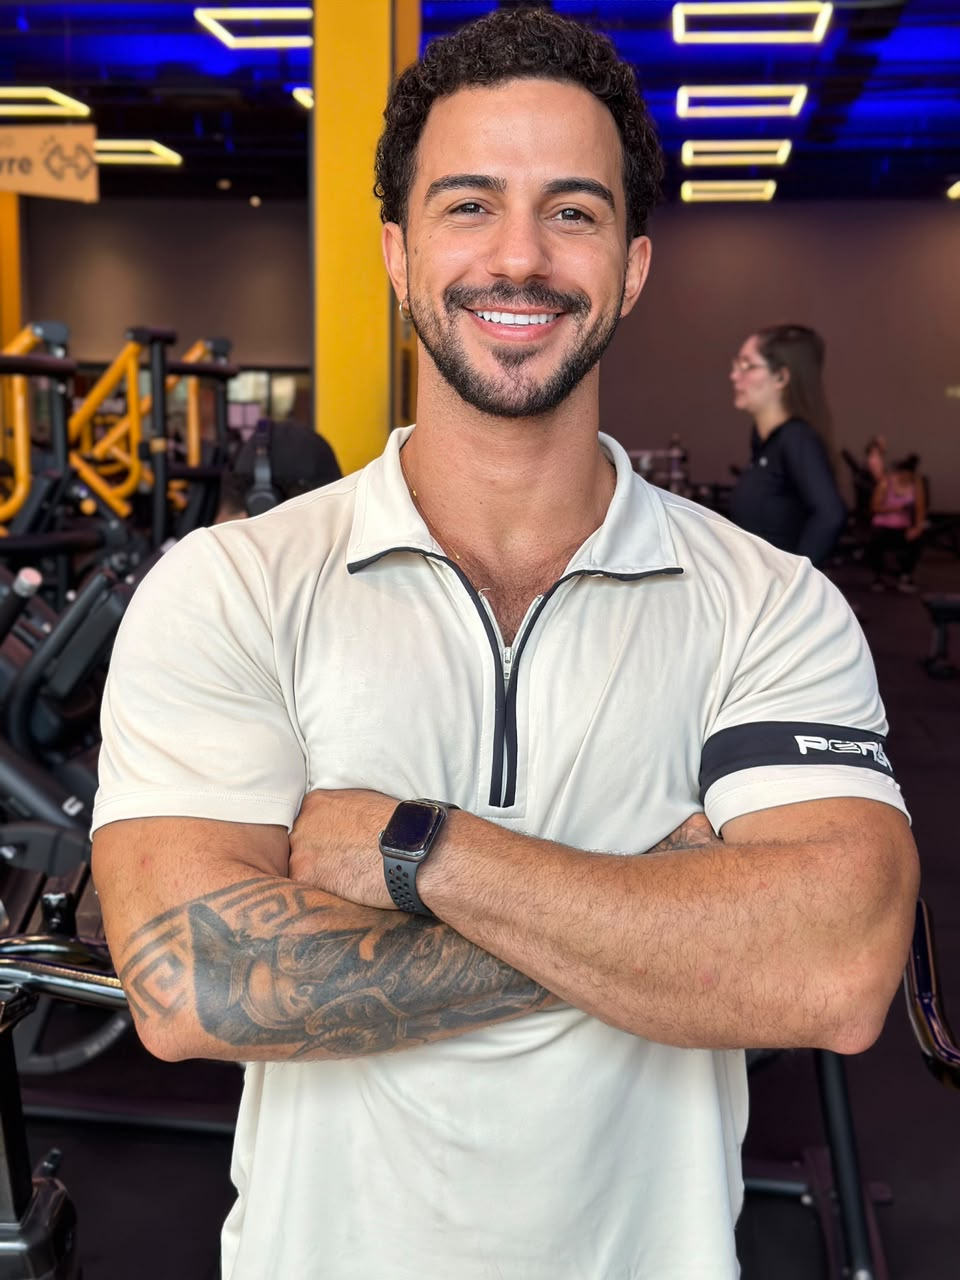
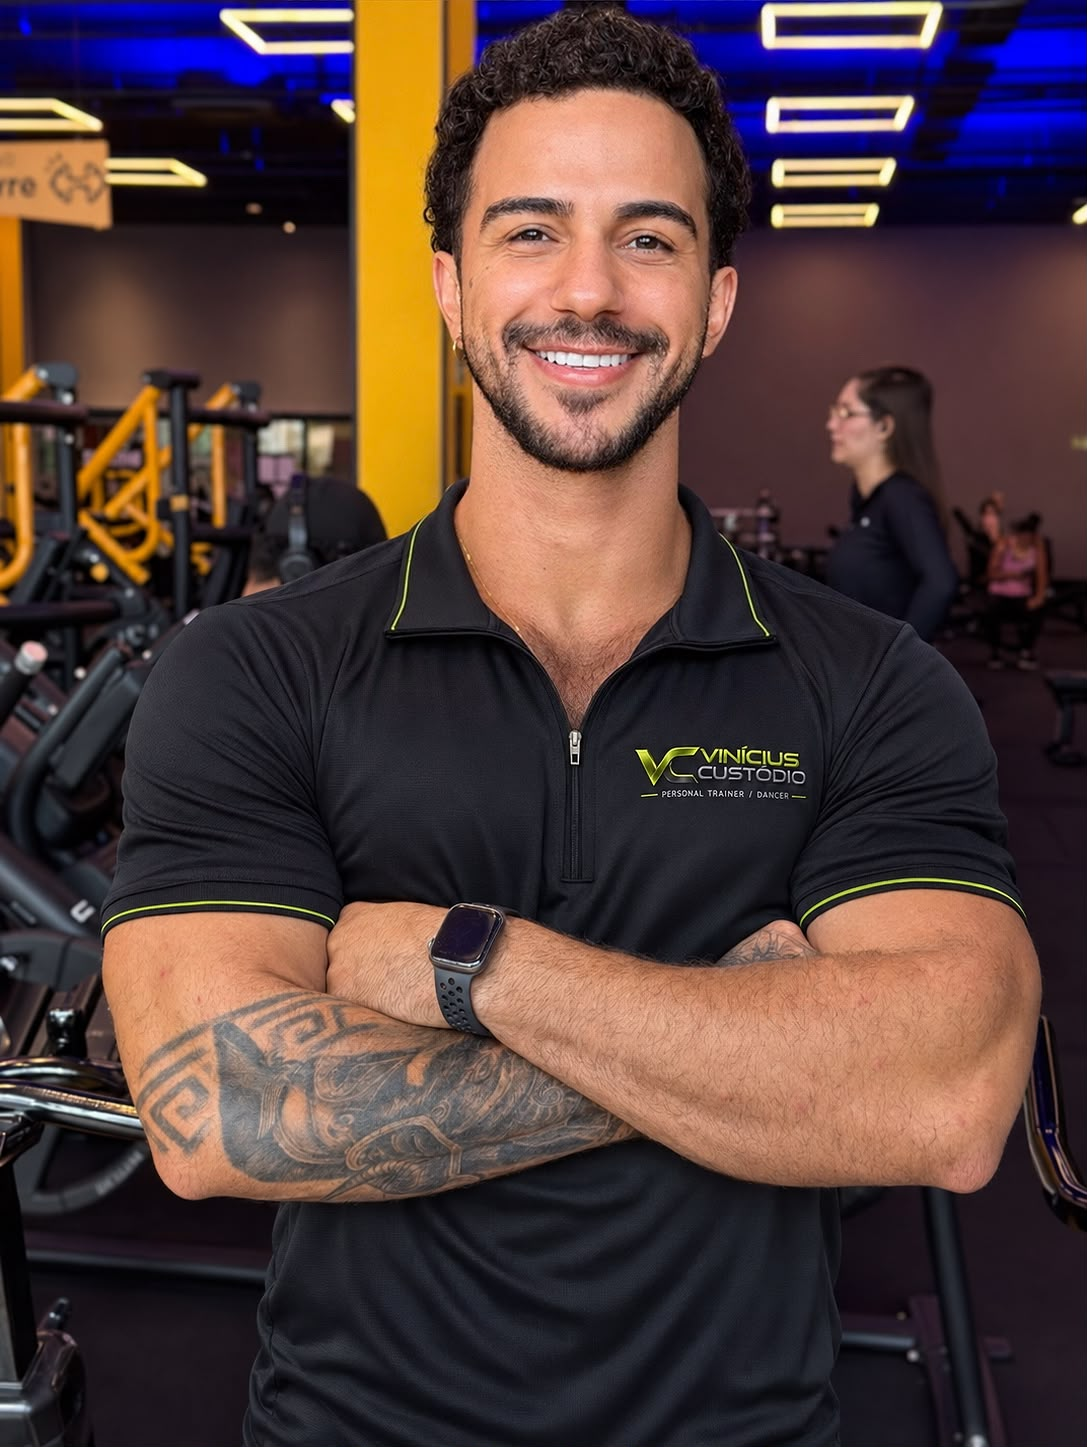
u

diff --git a/src/app/app.css b/src/app/app.css
@@ -173,7 +173,7 @@ p {
   display: flex;
   align-items: center;
   justify-content: space-between;
-  height: 74px;
+  height: 88px;
 }
 
 .brand {
@@ -184,14 +184,14 @@ p {
 
 .logo {
   display: block;
-  height: 48px;
+  height: 62px;
   width: auto;
   /* o fundo preto da logo some sobre o fundo escuro */
   mix-blend-mode: screen;
 }
 
 .logo-footer {
-  height: 56px;
+  height: 64px;
 }
 
 .nav,
@@ -1312,18 +1312,8 @@ p {
   }
 }
 
-@media (max-width: 900px) {
-  .app-grid {
-    grid-template-columns: 1fr;
-  }
-
-  .phone-badge {
-    left: 50%;
-    bottom: -0.5rem;
-    transform: translateX(-50%);
-    white-space: nowrap;
-  }
-
+/* menu hambúrguer: abaixo de 1180px os links não cabem ao lado da logo */
+@media (max-width: 1180px) {
   .menu-toggle {
     display: flex;
   }
@@ -1340,7 +1330,7 @@ p {
     flex-direction: column;
     align-items: stretch;
     gap: 1.2rem;
-    max-height: calc(100dvh - 74px);
+    max-height: calc(100dvh - 90px);
     overflow-y: auto;
     padding: 0.5rem 1.25rem 1.5rem;
     background: var(--bg);
@@ -1402,6 +1392,19 @@ p {
     opacity: 1;
     pointer-events: auto;
   }
+}
+
+@media (max-width: 900px) {
+  .app-grid {
+    grid-template-columns: 1fr;
+  }
+
+  .phone-badge {
+    left: 50%;
+    bottom: -0.5rem;
+    transform: translateX(-50%);
+    white-space: nowrap;
+  }
 
   .hero {
     padding: 3rem 0 4rem;
@@ -1447,7 +1450,11 @@ p {
   }
 
   .logo {
-    height: 40px;
+    height: 48px;
+  }
+
+  .header-inner {
+    height: 76px;
   }
 
   .plans {

diff --git a/src/app/app.html b/src/app/app.html
@@ -2,7 +2,7 @@
 <header class="header" [class.menu-open]="menuOpen()">
   <div class="container header-inner">
     <a href="#inicio" class="brand" (click)="closeMenu()">
-      <img src="logo-site.jpg" alt="Vinícius Custódio Personal Trainer" class="logo" width="1544" height="346" />
+      <img src="logo-site.jpg?v=2" alt="Vinícius Custódio Personal Trainer" class="logo" width="1544" height="346" />
     </a>
 
     <nav class="nav" id="menu" [class.open]="menuOpen()" aria-label="Menu principal">
@@ -68,7 +68,7 @@
 
       <div class="hero-media reveal">
         <div class="photo">
-          <img src="foto1.jpeg" alt="Vinícius Custódio, personal trainer" width="960" height="1280" fetchpriority="high" />
+          <img src="foto1.jpeg?v=2" alt="Vinícius Custódio, personal trainer" width="1087" height="1447" fetchpriority="high" />
         </div>
         <div class="badge-card">
           <app-icon name="shield" [size]="22" class="accent" />
@@ -441,7 +441,7 @@
 <footer class="footer">
   <div class="container footer-inner">
     <div>
-      <img src="logo-site.jpg" alt="Vinícius Custódio" class="logo logo-footer" width="1544" height="346" loading="lazy" />
+      <img src="logo-site.jpg?v=2" alt="Vinícius Custódio" class="logo logo-footer" width="1544" height="346" loading="lazy" />
       <p class="muted">Personal Trainer • CREF 014918-G/GO</p>
     </div>
     <div class="footer-links">

diff --git a/src/app/app.ts b/src/app/app.ts
@@ -43,12 +43,10 @@ export class App {
   protected readonly whatsappUrl = whatsappUrl(WHATSAPP_MESSAGE);
 
   protected readonly nav = [
-    { label: 'Início', href: '#inicio' },
     { label: 'Consultoria', href: '#consultoria' },
     { label: 'Como funciona', href: '#como-funciona' },
     { label: 'Resultados', href: '#resultados' },
     { label: 'Planos', href: '#planos' },
-    { label: 'Depoimentos', href: '#depoimentos' },
     { label: 'Dúvidas', href: '#duvidas' },
   ];
 
@@ -181,7 +179,7 @@ export class App {
 
   @HostListener('window:resize')
   protected onResize(): void {
-    if (window.innerWidth > 900) this.closeMenu();
+    if (window.innerWidth > 1180) this.closeMenu();
   }
 
   private lockScroll(lock: boolean): void {

diff --git a/src/styles.css b/src/styles.css
@@ -4,7 +4,7 @@
 
 html {
   scroll-behavior: smooth;
-  scroll-padding-top: 80px;
+  scroll-padding-top: 96px;
 }
 
 body {
